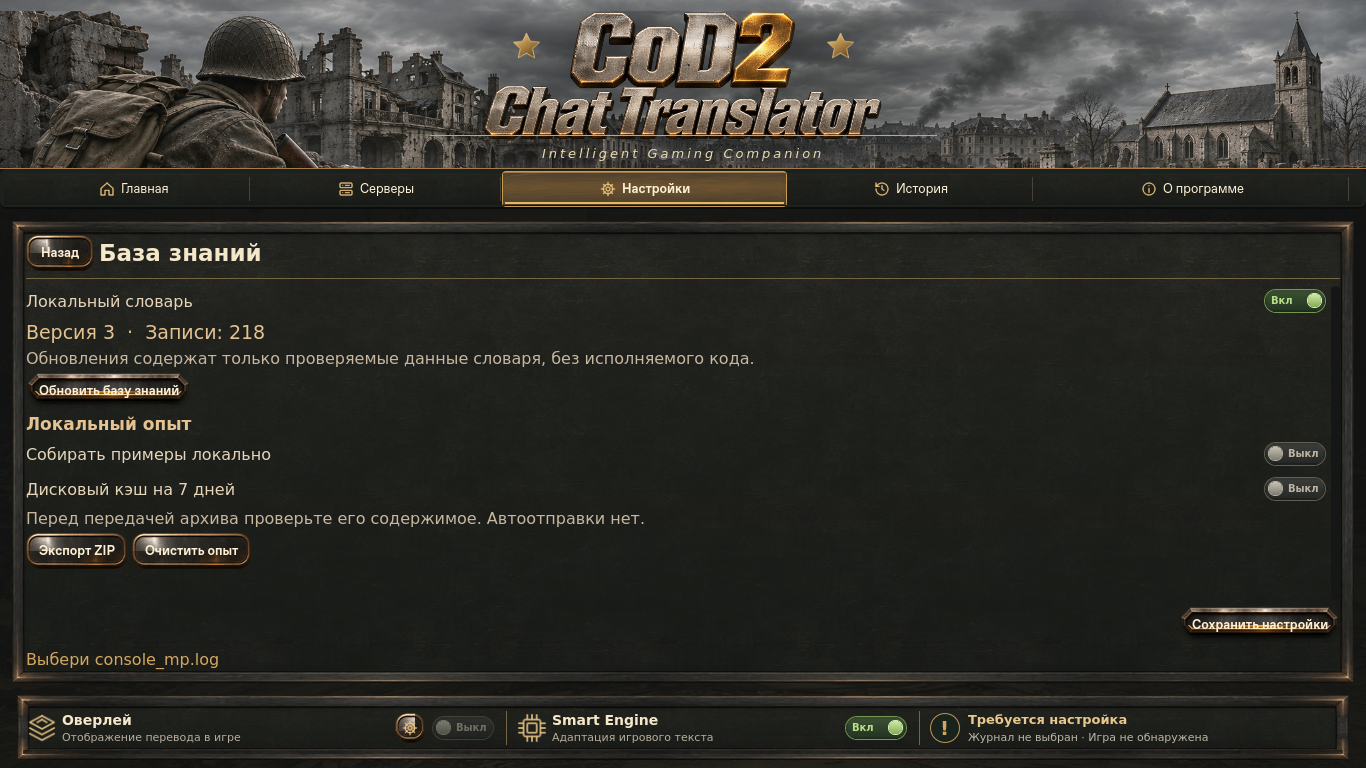
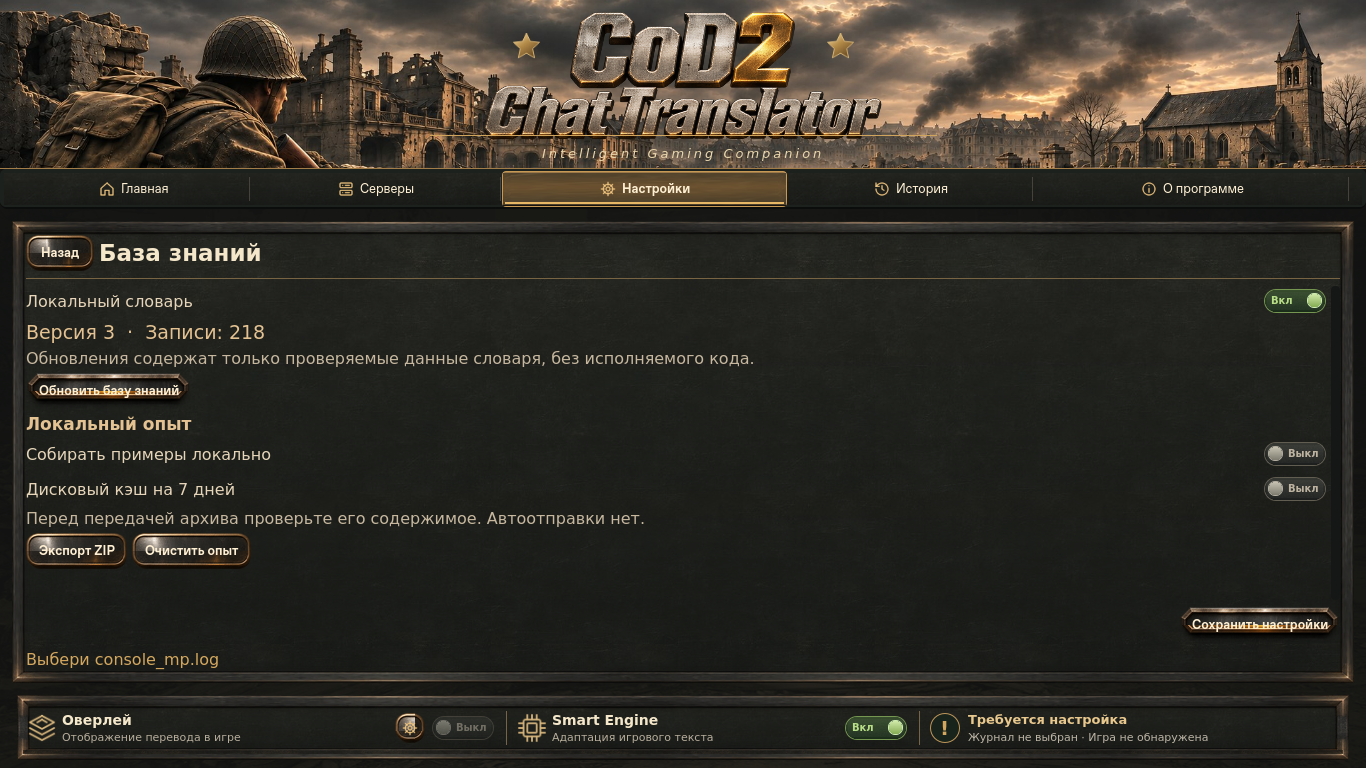
Warm shared cinematic panorama and refresh visual evidence

Changed region(s): [[0.0, 0.0, 1.0, 0.2188]]

diff --git a/qt_experiment/Home.qml b/qt_experiment/Home.qml
@@ -82,7 +82,7 @@ ApplicationWindow {
             Rectangle { anchors.fill: parent; color: "#25251e" }
             Image {
                 anchors.fill: parent
-                source: "command_panorama_final.jpg"
+                source: "command_panorama_warm.jpg"
                 fillMode: Image.PreserveAspectCrop
             }
             Image {

diff --git a/docs/QT_ART_FINALIZATION_PASS.md b/docs/QT_ART_FINALIZATION_PASS.md
@@ -10,12 +10,13 @@ The approved `docs/images/server_monitor_rc/reference.png` remains the artistic 
 | `metal_button.png` | 400×90 RGBA | 20 px left/right; 18 px top/bottom; normal, hover, pressed, focused, disabled | `MetalButton` throughout |
 | `amber_button.png` | 400×90 RGBA | same five states | `AmberButton`, especially Connect |
 | `keycap.png` | 240×240 RGBA | no slicing; same five states | `KeycapButton` for F8/F9 |
+| `panorama_warm.png` | 2172×292 RGB source; optimized JPEG runtime | fixed header crop | `Home.qml` shared panorama on every page |
 
-Original generated RGBA files are kept as source. Variants are preprocessed once at build time, not modified on state changes. The key labels and button text are rendered by Qt. Existing panorama, translation scenes, radio art, logo, SVG icons and compact switches remain in use; replacing those without better matching art would reduce consistency.
+Original generated component RGBA files are kept as source. Variants are preprocessed once at build time, not modified on state changes. The key labels and button text are rendered by Qt. The panorama was generated as a warmer composition preserving the soldier, church and empty central logo area; its separate logo remains live QML. Existing translation scenes, radio art, logo, SVG icons and compact switches remain in use; replacing those without better matching art would reduce consistency.
 
 ## Visual audit and iteration
 
-The approved reference uses a warm cinematic panorama, restrained thin metal edges, a single continuous navigation rail, luminous keys, softly highlighted table rows and compact lower controls. The previous Qt build had correct page geometry and functional controls but its frame had squared, repeated trim and its keys lacked the reference's perspective and light. The new shared frame and keys improve material depth, while the generated button plates unify actions across workspaces and dialogs. These are local improvements, **not a claim of pixel or artistic equivalence**: the existing panorama remains cooler, F8/F9 cards are still more orange, and sparse live server data cannot resemble the populated reference without real servers. The navigation rail, icon family and switch art were retained, pending a stronger matching replacement.
+The approved reference uses a warm cinematic panorama, restrained thin metal edges, a single continuous navigation rail, luminous keys, softly highlighted table rows and compact lower controls. The previous Qt build had correct page geometry and functional controls but its frame had squared, repeated trim and its keys lacked the reference's perspective and light. The new shared frame and keys improve material depth, while the generated button plates unify actions across workspaces and dialogs. The new warmer panorama improves cohesion with the reference. These are local improvements, **not a claim of pixel or artistic equivalence**: F8/F9 cards are still more orange, and sparse live server data cannot resemble the populated reference without real servers. The navigation rail, icon family and switch art were retained, pending a stronger matching replacement.
 
 ![Previous and new actual Qt screenshots, both Linux offscreen fixture](images/qt_art_pass/before_after.png)
 
@@ -28,4 +29,4 @@ Actual application screenshots for all 11 pages: [home](images/qt_art_pass/home.
 - The generic Linux offscreen font fallback now selects an installed face with Cyrillic glyphs when its generic default lacks them. Windows still uses its existing font path.
 - Native CoD2 F8/F9/F10, fullscreen HUD, gameplay performance, actual Windows DPI and updater installation require a real owner-authorized Windows game session. A Windows CI screenshot cannot establish these facts.
 
-Generation prompt set: a thin transparent dark graphite WWII command panel frame; an empty dark graphite steel action button; an empty restrained amber steel action button; an empty square graphite keycap with low amber base light. All were made with the built-in image generator, with no raster text. Human artistic acceptance remains with the owner.
+Generation prompt set: a thin transparent dark graphite WWII command panel frame; an empty dark graphite steel action button; an empty restrained amber steel action button; an empty square graphite keycap with low amber base light; a color and light edit of the original wide panorama using the approved reference as style guidance. All were made with the built-in image generator, with no raster UI text. Human artistic acceptance remains with the owner.
